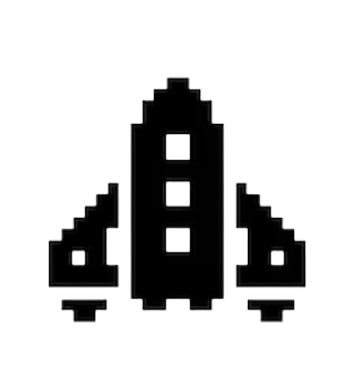
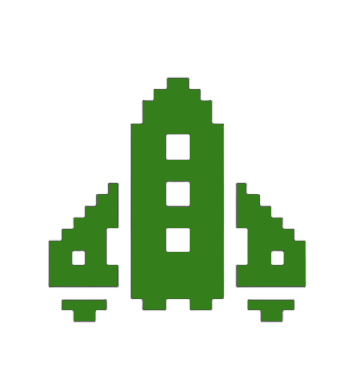
made updates

diff --git a/src/app.js b/src/app.js
@@ -52,13 +52,13 @@ window.onload = function () {
     // context.fillStyle = "green";
     // context.fillRect(ship.x, ship.y, ship.width, ship.height);
     shipImg = new Image();
-    shipImg.src = "/imgs/hero.png";
+    shipImg.src = "/imgs/hero2.png";
     shipImg.onload = function () {
         context.drawImage(shipImg, ship.x, ship.y, ship.width, ship.height);
     };
 
     alienImg = new Image();
-    alienImg.src = "/imgs/special-invader.png";
+    alienImg.src = "/imgs/robot-invader.png";
     createAliens();
 
     requestAnimationFrame(update);
@@ -99,7 +99,7 @@ function update() {
     for (let i = 0; i < bulletArray.length; i++){
         let bullet = bulletArray[i];
         bullet.y += bulletVelocityY;
-        context.fillStyle="black";
+        context.fillStyle="yellow";
         context.fillRect(bullet.x, bullet.y, bullet.width, bullet.height);
 
         //bullet collision with aliens

diff --git a/src/app.css b/src/app.css
@@ -13,5 +13,6 @@ h1 {
 }
 
 #playingBoard {
-    background-color: white;
+    background-color: black;
+    border: 3px solid purple;
 }
